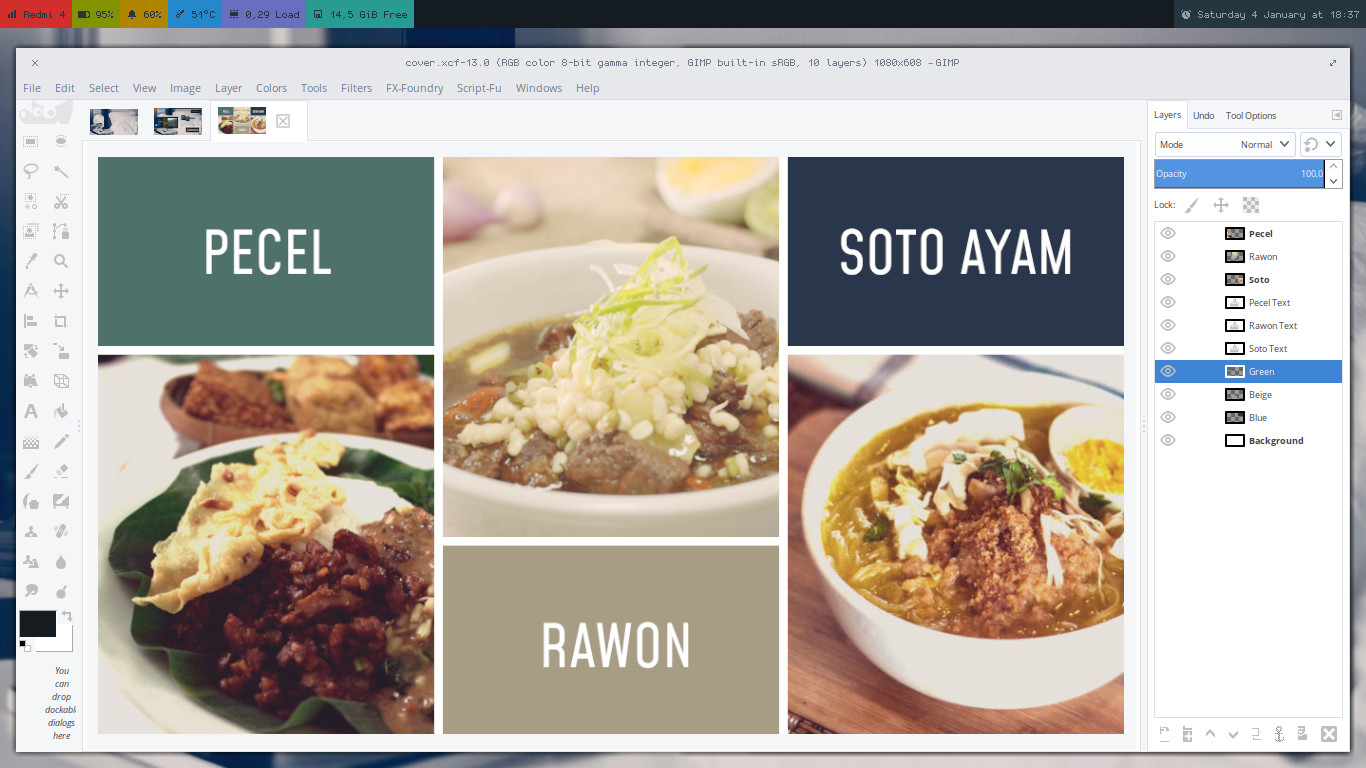
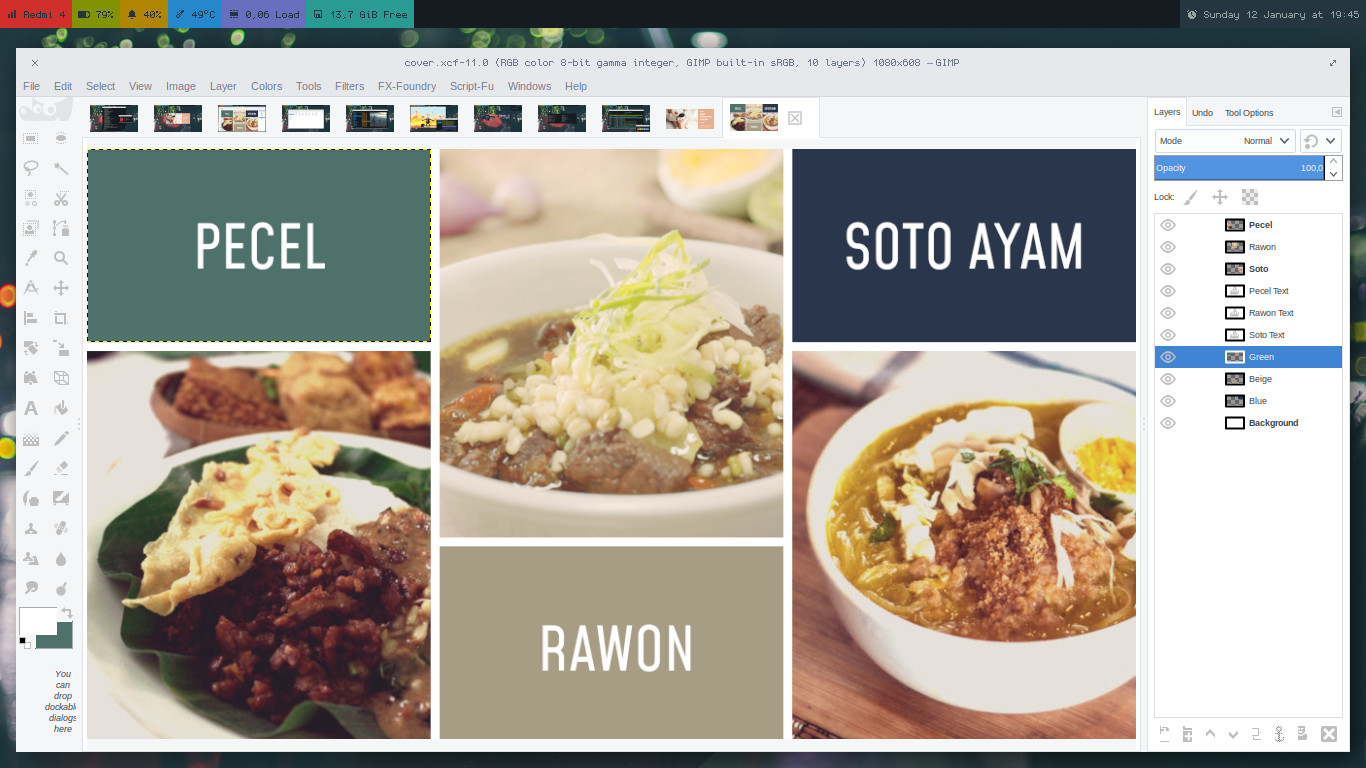
Font changed to Liberation, replace wallpaper, update package list, and some other changes

Changed region(s): [[0.0, 0.0, 1.0, 1.0], [0.123, 0.2812, 0.246, 0.375], [0.3997, 0.8125, 0.5227, 0.875]]

diff --git a/README.md b/README.md
@@ -1,11 +1,19 @@
 ## Preview
-![vim](https://raw.githubusercontent.com/addy-dclxvi/dotfiles/master/.preview/vim-ufetch.jpg)
-<br />
-![ranger](https://raw.githubusercontent.com/addy-dclxvi/dotfiles/master/.preview/ranger-dunst-xresources-openboxmenu.jpg)
+![vim](https://raw.githubusercontent.com/addy-dclxvi/dotfiles/master/.preview/vim.jpg)
 <br />
 ![pcmanfm](https://raw.githubusercontent.com/addy-dclxvi/dotfiles/master/.preview/pcmanfm.jpg)
 <br />
-![gimpsplashscreen](https://raw.githubusercontent.com/addy-dclxvi/dotfiles/master/.preview/gimpsplashscreen.jpg)
+![menu](https://raw.githubusercontent.com/addy-dclxvi/dotfiles/master/.preview/menu.jpg)
+<br />
+![splash](https://raw.githubusercontent.com/addy-dclxvi/dotfiles/master/.preview/splash.jpg)
+<br />
+![ranger](https://raw.githubusercontent.com/addy-dclxvi/dotfiles/master/.preview/ranger.jpg)
+<br />
+![mpv](https://raw.githubusercontent.com/addy-dclxvi/dotfiles/master/.preview/mpv.jpg)
+<br />
+![htop](https://raw.githubusercontent.com/addy-dclxvi/dotfiles/master/.preview/htop.jpg)
+<br />
+![rofi](https://raw.githubusercontent.com/addy-dclxvi/dotfiles/master/.preview/rofi.jpg)
 <br />
 ![gimp](https://raw.githubusercontent.com/addy-dclxvi/dotfiles/master/.preview/gimp.jpg)
 <br />
@@ -25,7 +33,7 @@
 - **GTK Theme** Arc
 - **Icons** Faba
 - **Cursor** Breeze
-- **GTK Fonts** Opensans, Vollkorn, Fira Code
+- **GTK Fonts** Liberation
 - **File Manager** PCManFM, GVFS, LibMTP
 - **Web Browser** Chromium VA-API
 - **VA-API Driver** i965-va-driver
@@ -47,7 +55,10 @@
 - **GUI Text Editor** Geany
 - **CLI Text Editor** Vim
 - **Policy Kit Frontend** Gnome Polkit
-- **Media Player** MPV
+- **Video Player** MPV
+- **Music Player** Audacious
+- **Office Suite** LibreOffice
+- **Printer Driver** GutenPrint
 - **Screenshooter** scrot
 - **Network Manager** WICD
 - **Brightness Manager** xbacklight
@@ -92,9 +103,10 @@
 - **Scroll Up Titlebar** roll up window
 - **Scroll Down Titlebar** restore rolled up window
 - **Double Click Desktop** list opened programs, so I could survive without a taskbar
-- **Click on SSID (Panel)** Open WICD
-- **Click on Volume (Panel)** Open Pavucontrol
-- **Scrol Up/Down on Volume (Panel)** Turn up/down the volume
+- **Click on SSID (Panel)** open WICD
+- **Click on Volume (Panel)** open Pavucontrol
+- **Scrol Up/Down on Volume (Panel)** turn up/down the volume
+- **Click on Disk (Panel)** launch PCManFM
 - ..More keybinds just read the *~/.config/openbox/rc.xml* file
 
 ## Notes
